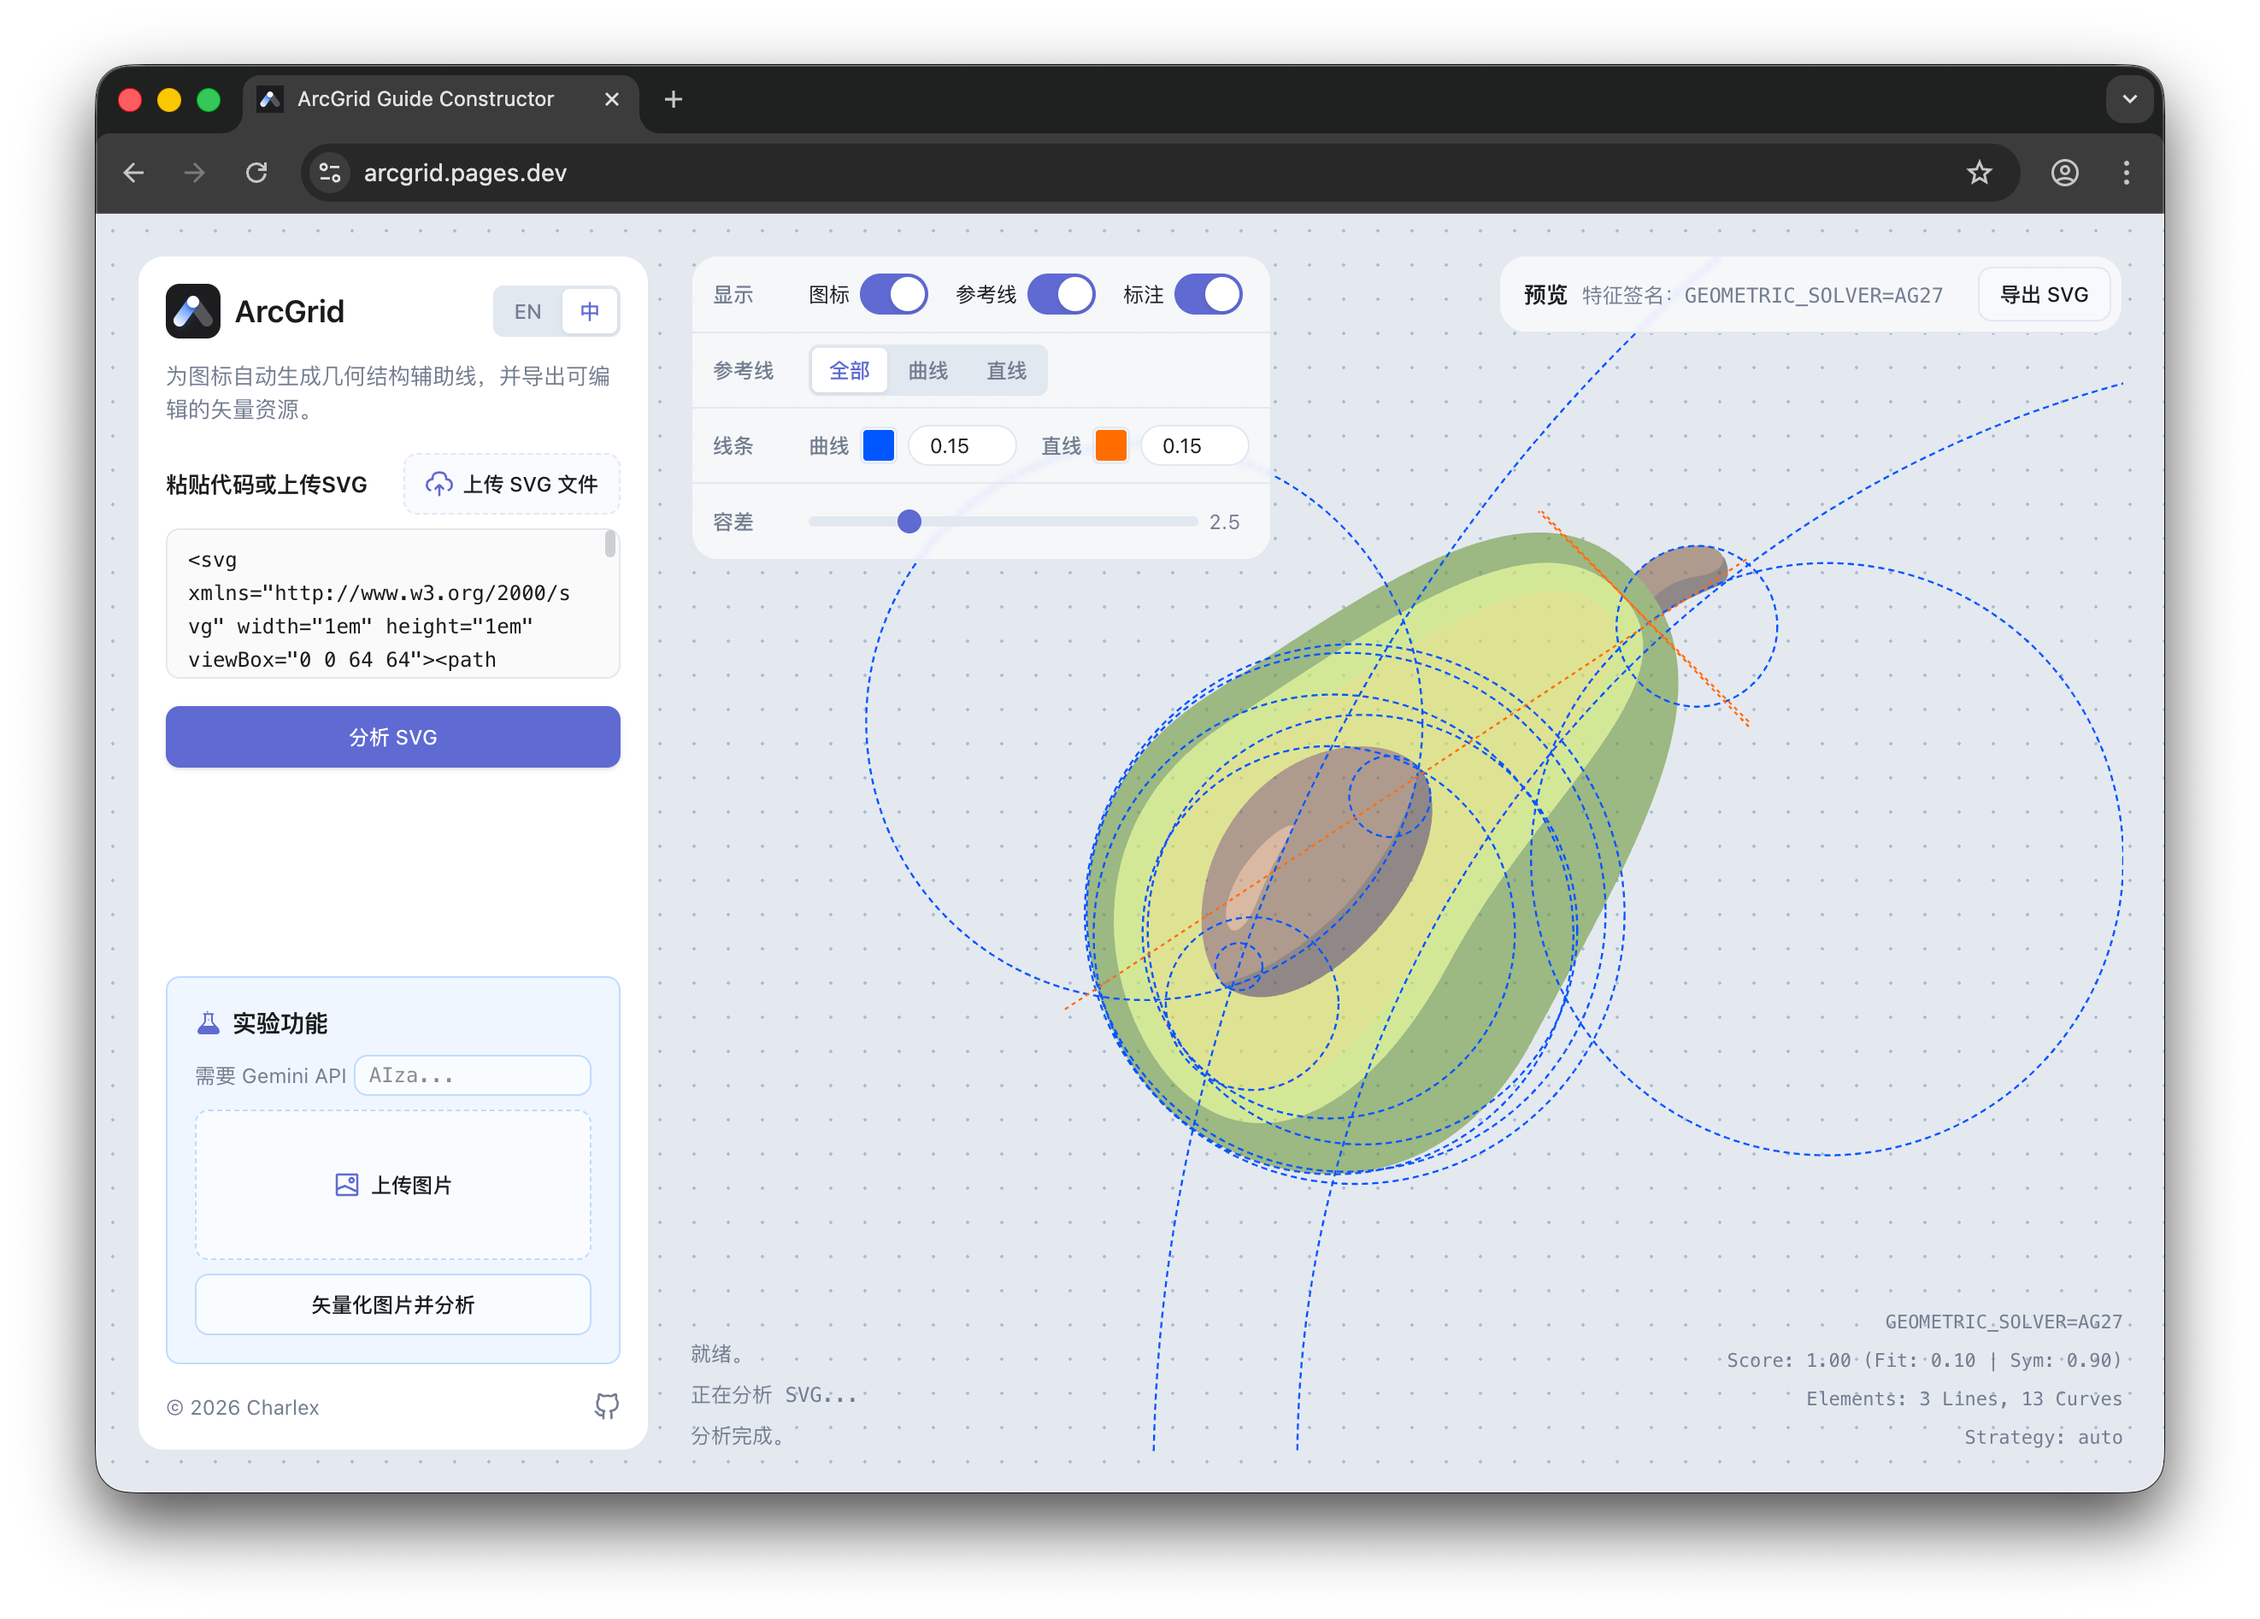
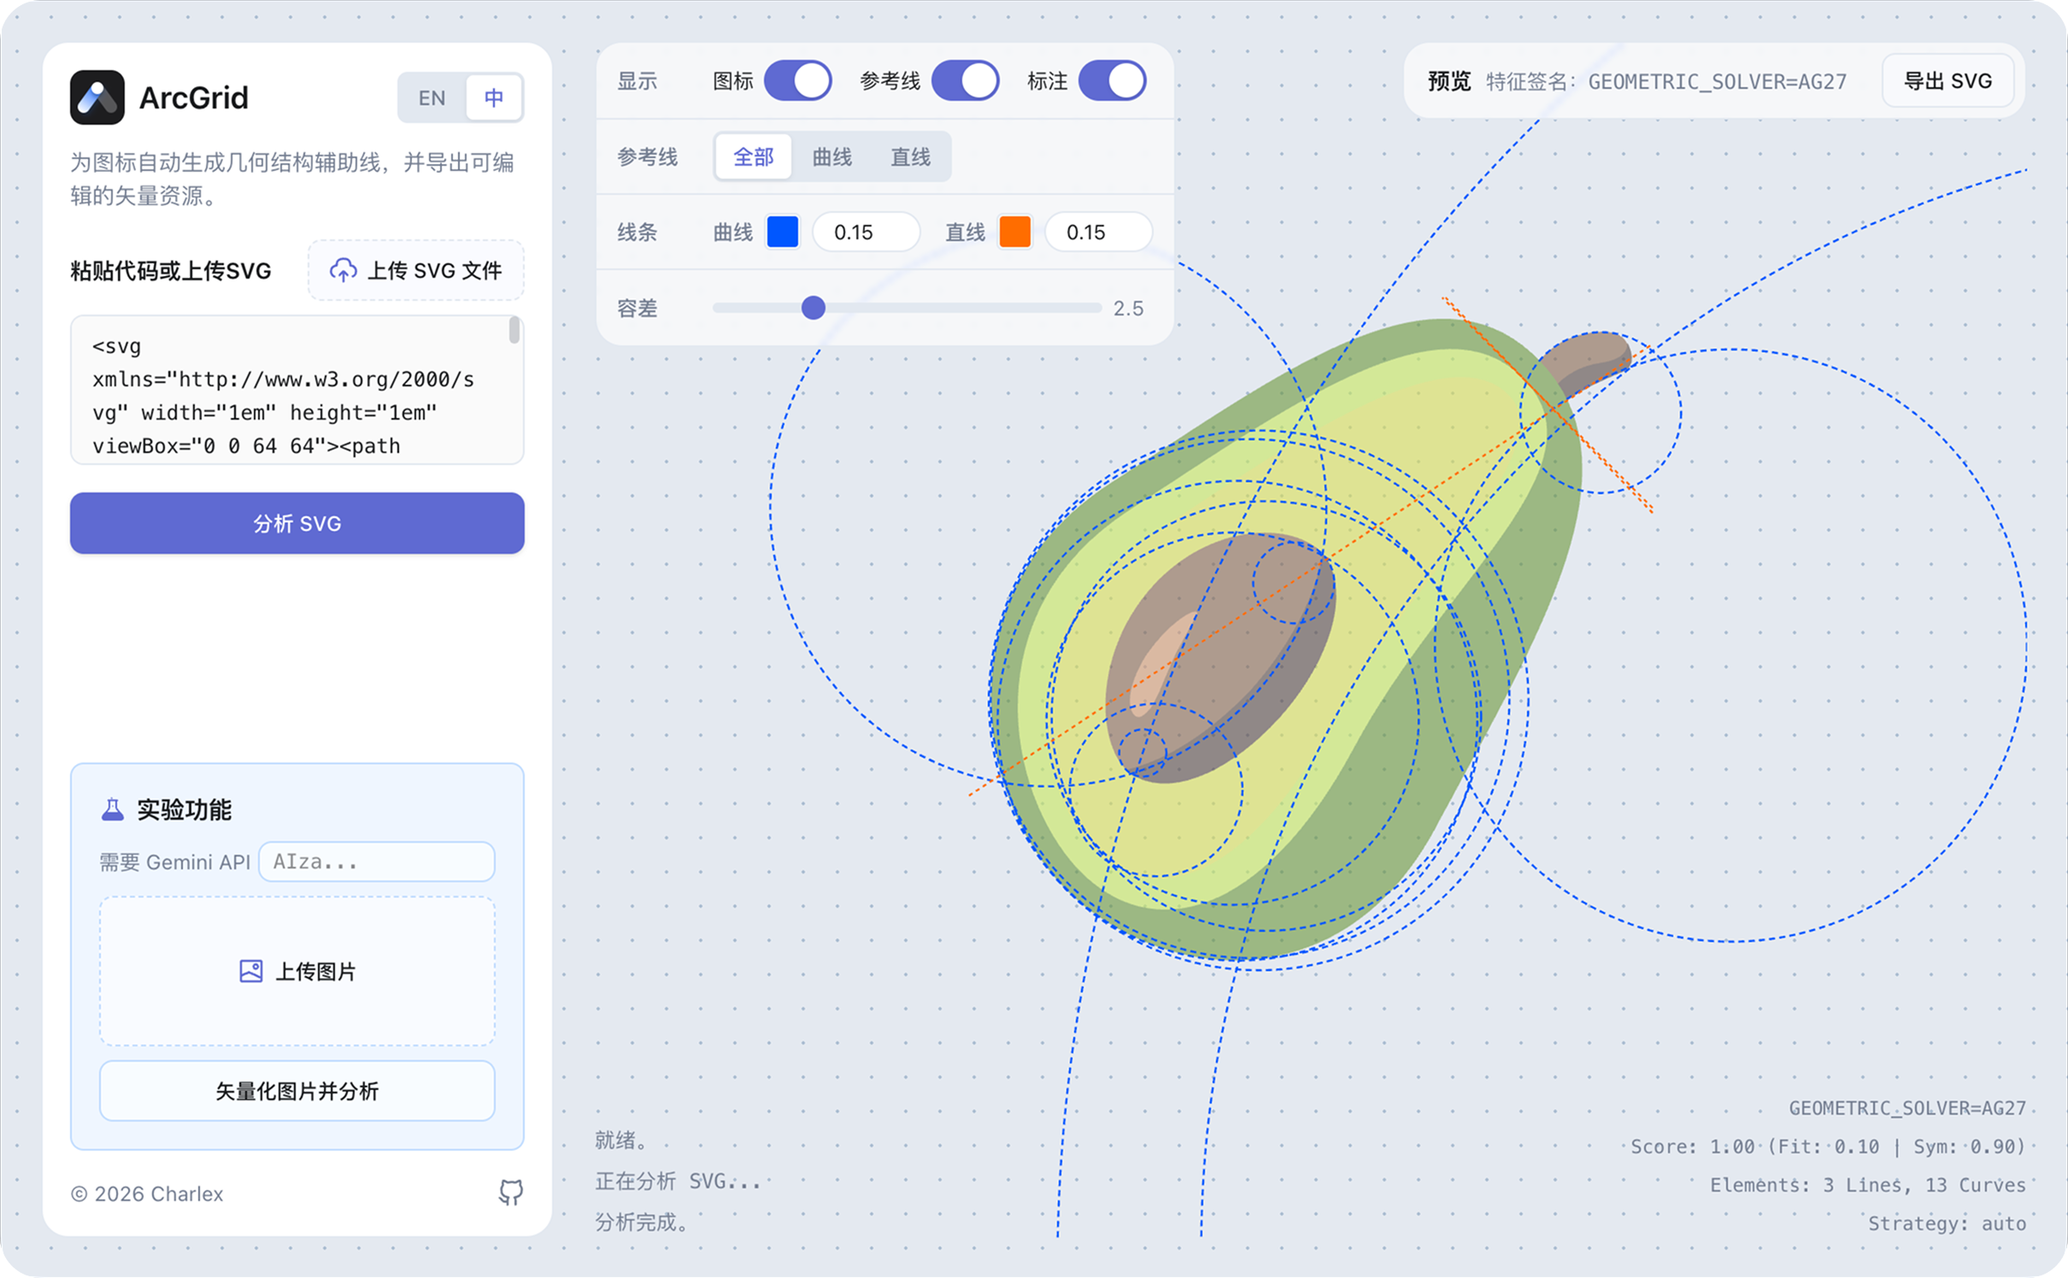
Point README/demo to charlex.me and update preview
Update live demo links in README from arcgrid.pages.dev to https://charlex.me/lab/arcgrid to point to the canonical hosting. Replace the plain copyright span in public/index.html with a linked © Charlex anchor (https://charlex.me/) and update its classes. Also replace the preview image (public/arcgrid_preview.webp) with an updated binary asset.

diff --git a/public/index.html b/public/index.html
@@ -134,7 +134,8 @@
       </div>
 
       <div class="flex items-center justify-between text-[12px] text-[var(--color-muted)]">
-        <span data-i18n="copyright">© 2026 Charlex</span>
+        <a href="https://charlex.me/" target="_blank" rel="noopener noreferrer"
+          class="hover:text-[var(--color-ink)] transition-colors" data-i18n="copyright">© 2026 Charlex</a>
         <a href="https://github.com/CharlexH/ArcGrid" target="_blank" rel="noopener noreferrer"
           class="text-[var(--color-muted)] hover:text-[var(--color-ink)] transition-colors" title="GitHub Repository">
           <svg viewBox="0 0 24 24" width="16" height="16" stroke="currentColor" stroke-width="2" fill="none"

diff --git a/README.md b/README.md
@@ -10,7 +10,7 @@
 
 **ArcGrid** 是一款用于生成**图标比例绘图和辅助线**的 Web 应用原型，可自动为设计作品提取并标注专业的几何制图规范。
 
-**✨ 在线体验:** [https://arcgrid.pages.dev/](https://arcgrid.pages.dev/)
+**✨ 在线体验:** [https://charlex.me/lab/arcgrid/](https://charlex.me/lab/arcgrid/)
 
 ### ✨ 功能特性
 
@@ -55,7 +55,7 @@ npm run dev
 
 **ArcGrid** is a specialized web application prototype that automates the generation of **professional construction lines and geometric annotations** for logo designs.
 
-**✨ Live Demo:** [https://arcgrid.pages.dev/](https://arcgrid.pages.dev/)
+**✨ Live Demo:** [https://charlex.me/lab/arcgrid/](https://charlex.me/lab/arcgrid/)
 
 ### ✨ Key Features
 
